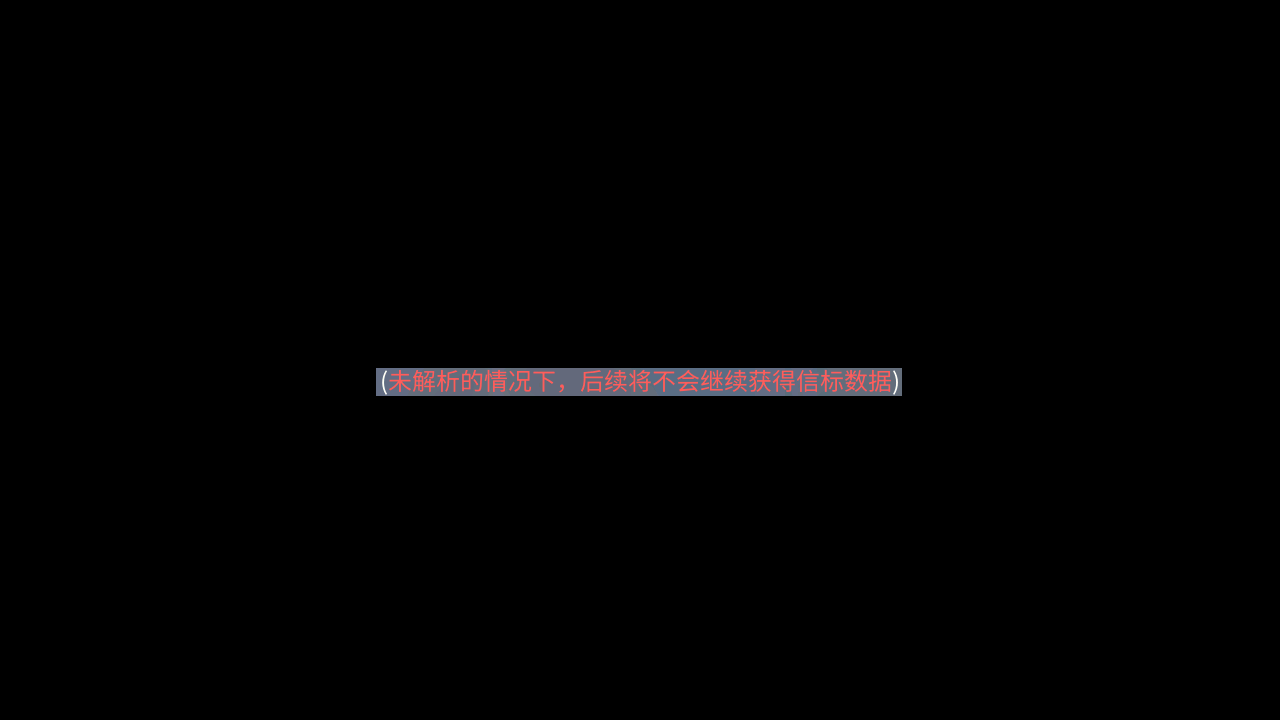
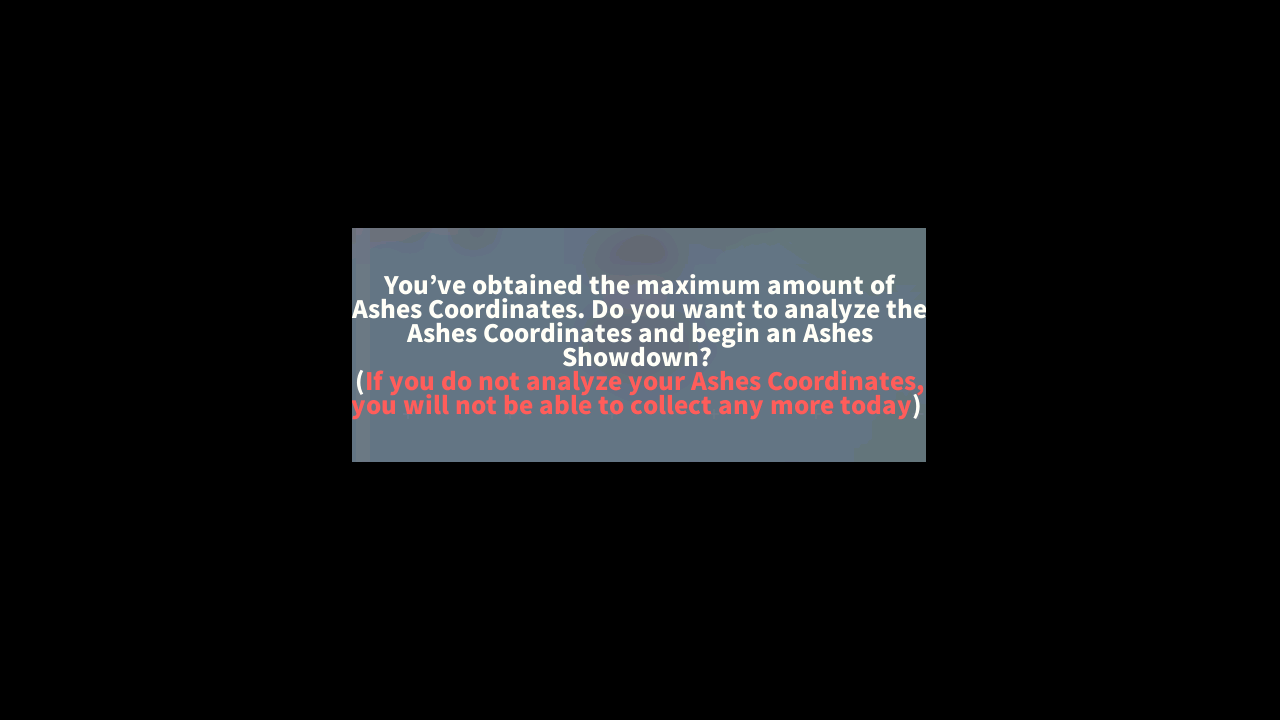
Add: [EN] os_handler assets pt. 1
TODO: Missing MISSION_FINISH, PORT_MISSION_ACCEPT

Changed region(s): [[0.25, 0.3056, 0.75, 0.6417]]

diff --git a/module/os_handler/assets.py b/module/os_handler/assets.py
@@ -4,12 +4,12 @@ from module.base.template import Template
 # This file was automatically generated by dev_tools.button_extract.
 # Don't modify it manually.
 
-ACTION_POINT_BUY_REMAIN = Button(area={'cn': (803, 458, 833, 482), 'en': (803, 458, 833, 482), 'jp': (803, 458, 833, 482), 'tw': (803, 458, 833, 482)}, color={'cn': (108, 138, 125), 'en': (108, 138, 125), 'jp': (108, 138, 125), 'tw': (108, 138, 125)}, button={'cn': (803, 458, 833, 482), 'en': (803, 458, 833, 482), 'jp': (803, 458, 833, 482), 'tw': (803, 458, 833, 482)}, file={'cn': './assets/cn/os_handler/ACTION_POINT_BUY_REMAIN.png', 'en': './assets/cn/os_handler/ACTION_POINT_BUY_REMAIN.png', 'jp': './assets/cn/os_handler/ACTION_POINT_BUY_REMAIN.png', 'tw': './assets/cn/os_handler/ACTION_POINT_BUY_REMAIN.png'})
-ACTION_POINT_CANCEL = Button(area={'cn': (370, 528, 542, 585), 'en': (370, 528, 542, 585), 'jp': (370, 528, 542, 585), 'tw': (370, 528, 542, 585)}, color={'cn': (167, 168, 171), 'en': (167, 168, 171), 'jp': (167, 168, 171), 'tw': (167, 168, 171)}, button={'cn': (370, 528, 542, 585), 'en': (370, 528, 542, 585), 'jp': (370, 528, 542, 585), 'tw': (370, 528, 542, 585)}, file={'cn': './assets/cn/os_handler/ACTION_POINT_CANCEL.png', 'en': './assets/cn/os_handler/ACTION_POINT_CANCEL.png', 'jp': './assets/cn/os_handler/ACTION_POINT_CANCEL.png', 'tw': './assets/cn/os_handler/ACTION_POINT_CANCEL.png'})
-ACTION_POINT_REMAIN = Button(area={'cn': (892, 220, 952, 241), 'en': (892, 220, 952, 241), 'jp': (892, 220, 952, 241), 'tw': (892, 220, 952, 241)}, color={'cn': (124, 127, 113), 'en': (124, 127, 113), 'jp': (124, 127, 113), 'tw': (124, 127, 113)}, button={'cn': (892, 220, 952, 241), 'en': (892, 220, 952, 241), 'jp': (892, 220, 952, 241), 'tw': (892, 220, 952, 241)}, file={'cn': './assets/cn/os_handler/ACTION_POINT_REMAIN.png', 'en': './assets/cn/os_handler/ACTION_POINT_REMAIN.png', 'jp': './assets/cn/os_handler/ACTION_POINT_REMAIN.png', 'tw': './assets/cn/os_handler/ACTION_POINT_REMAIN.png'})
-ACTION_POINT_USE = Button(area={'cn': (738, 528, 910, 585), 'en': (738, 528, 910, 585), 'jp': (738, 528, 910, 585), 'tw': (738, 528, 910, 585)}, color={'cn': (93, 142, 203), 'en': (93, 142, 203), 'jp': (93, 142, 203), 'tw': (93, 142, 203)}, button={'cn': (738, 528, 910, 585), 'en': (738, 528, 910, 585), 'jp': (738, 528, 910, 585), 'tw': (738, 528, 910, 585)}, file={'cn': './assets/cn/os_handler/ACTION_POINT_USE.png', 'en': './assets/cn/os_handler/ACTION_POINT_USE.png', 'jp': './assets/cn/os_handler/ACTION_POINT_USE.png', 'tw': './assets/cn/os_handler/ACTION_POINT_USE.png'})
-ASH_POPUP_CHECK = Button(area={'cn': (352, 249, 928, 479), 'en': (376, 368, 902, 396), 'jp': (376, 368, 902, 396), 'tw': (376, 368, 902, 396)}, color={'cn': (107, 117, 135), 'en': (134, 105, 119), 'jp': (134, 105, 119), 'tw': (134, 105, 119)}, button={'cn': (352, 249, 928, 479), 'en': (376, 368, 902, 396), 'jp': (376, 368, 902, 396), 'tw': (376, 368, 902, 396)}, file={'cn': './assets/cn/os_handler/ASH_POPUP_CHECK.png', 'en': './assets/en/os_handler/ASH_POPUP_CHECK.png', 'jp': './assets/jp/os_handler/ASH_POPUP_CHECK.png', 'tw': './assets/tw/os_handler/ASH_POPUP_CHECK.png'})
-AUTO_SEARCH_REWARD = Button(area={'cn': (558, 535, 730, 592), 'en': (558, 535, 730, 592), 'jp': (558, 535, 730, 592), 'tw': (558, 535, 730, 592)}, color={'cn': (163, 166, 170), 'en': (163, 166, 170), 'jp': (163, 166, 170), 'tw': (163, 166, 170)}, button={'cn': (558, 535, 730, 592), 'en': (558, 535, 730, 592), 'jp': (558, 535, 730, 592), 'tw': (558, 535, 730, 592)}, file={'cn': './assets/cn/os_handler/AUTO_SEARCH_REWARD.png', 'en': './assets/cn/os_handler/AUTO_SEARCH_REWARD.png', 'jp': './assets/cn/os_handler/AUTO_SEARCH_REWARD.png', 'tw': './assets/cn/os_handler/AUTO_SEARCH_REWARD.png'})
+ACTION_POINT_BUY_REMAIN = Button(area={'cn': (803, 458, 833, 482), 'en': (907, 458, 941, 483), 'jp': (803, 458, 833, 482), 'tw': (803, 458, 833, 482)}, color={'cn': (108, 138, 125), 'en': (106, 145, 116), 'jp': (108, 138, 125), 'tw': (108, 138, 125)}, button={'cn': (803, 458, 833, 482), 'en': (907, 458, 941, 483), 'jp': (803, 458, 833, 482), 'tw': (803, 458, 833, 482)}, file={'cn': './assets/cn/os_handler/ACTION_POINT_BUY_REMAIN.png', 'en': './assets/en/os_handler/ACTION_POINT_BUY_REMAIN.png', 'jp': './assets/cn/os_handler/ACTION_POINT_BUY_REMAIN.png', 'tw': './assets/cn/os_handler/ACTION_POINT_BUY_REMAIN.png'})
+ACTION_POINT_CANCEL = Button(area={'cn': (370, 528, 542, 585), 'en': (375, 531, 537, 584), 'jp': (370, 528, 542, 585), 'tw': (370, 528, 542, 585)}, color={'cn': (167, 168, 171), 'en': (170, 172, 175), 'jp': (167, 168, 171), 'tw': (167, 168, 171)}, button={'cn': (370, 528, 542, 585), 'en': (375, 531, 537, 584), 'jp': (370, 528, 542, 585), 'tw': (370, 528, 542, 585)}, file={'cn': './assets/cn/os_handler/ACTION_POINT_CANCEL.png', 'en': './assets/en/os_handler/ACTION_POINT_CANCEL.png', 'jp': './assets/cn/os_handler/ACTION_POINT_CANCEL.png', 'tw': './assets/cn/os_handler/ACTION_POINT_CANCEL.png'})
+ACTION_POINT_REMAIN = Button(area={'cn': (892, 220, 952, 241), 'en': (892, 220, 952, 241), 'jp': (892, 220, 952, 241), 'tw': (892, 220, 952, 241)}, color={'cn': (124, 127, 113), 'en': (124, 127, 113), 'jp': (124, 127, 113), 'tw': (124, 127, 113)}, button={'cn': (892, 220, 952, 241), 'en': (892, 220, 952, 241), 'jp': (892, 220, 952, 241), 'tw': (892, 220, 952, 241)}, file={'cn': './assets/cn/os_handler/ACTION_POINT_REMAIN.png', 'en': './assets/en/os_handler/ACTION_POINT_REMAIN.png', 'jp': './assets/cn/os_handler/ACTION_POINT_REMAIN.png', 'tw': './assets/cn/os_handler/ACTION_POINT_REMAIN.png'})
+ACTION_POINT_USE = Button(area={'cn': (738, 528, 910, 585), 'en': (742, 531, 909, 584), 'jp': (738, 528, 910, 585), 'tw': (738, 528, 910, 585)}, color={'cn': (93, 142, 203), 'en': (107, 152, 208), 'jp': (93, 142, 203), 'tw': (93, 142, 203)}, button={'cn': (738, 528, 910, 585), 'en': (742, 531, 909, 584), 'jp': (738, 528, 910, 585), 'tw': (738, 528, 910, 585)}, file={'cn': './assets/cn/os_handler/ACTION_POINT_USE.png', 'en': './assets/en/os_handler/ACTION_POINT_USE.png', 'jp': './assets/cn/os_handler/ACTION_POINT_USE.png', 'tw': './assets/cn/os_handler/ACTION_POINT_USE.png'})
+ASH_POPUP_CHECK = Button(area={'cn': (352, 249, 928, 479), 'en': (352, 228, 926, 462), 'jp': (376, 368, 902, 396), 'tw': (376, 368, 902, 396)}, color={'cn': (107, 117, 135), 'en': (125, 129, 139), 'jp': (134, 105, 119), 'tw': (134, 105, 119)}, button={'cn': (352, 249, 928, 479), 'en': (352, 228, 926, 462), 'jp': (376, 368, 902, 396), 'tw': (376, 368, 902, 396)}, file={'cn': './assets/cn/os_handler/ASH_POPUP_CHECK.png', 'en': './assets/en/os_handler/ASH_POPUP_CHECK.png', 'jp': './assets/jp/os_handler/ASH_POPUP_CHECK.png', 'tw': './assets/tw/os_handler/ASH_POPUP_CHECK.png'})
+AUTO_SEARCH_REWARD = Button(area={'cn': (558, 535, 730, 592), 'en': (563, 537, 725, 591), 'jp': (558, 535, 730, 592), 'tw': (558, 535, 730, 592)}, color={'cn': (163, 166, 170), 'en': (167, 170, 174), 'jp': (163, 166, 170), 'tw': (163, 166, 170)}, button={'cn': (558, 535, 730, 592), 'en': (563, 537, 725, 591), 'jp': (558, 535, 730, 592), 'tw': (558, 535, 730, 592)}, file={'cn': './assets/cn/os_handler/AUTO_SEARCH_REWARD.png', 'en': './assets/en/os_handler/AUTO_SEARCH_REWARD.png', 'jp': './assets/cn/os_handler/AUTO_SEARCH_REWARD.png', 'tw': './assets/cn/os_handler/AUTO_SEARCH_REWARD.png'})
 CLICK_SAFE_AREA = Button(area={'cn': (1104, 169, 1214, 284), 'en': (1104, 169, 1214, 284), 'jp': (1104, 169, 1214, 284), 'tw': (1104, 169, 1214, 284)}, color={'cn': (96, 114, 142), 'en': (96, 114, 142), 'jp': (96, 114, 142), 'tw': (96, 114, 142)}, button={'cn': (1104, 169, 1214, 284), 'en': (1104, 169, 1214, 284), 'jp': (1104, 169, 1214, 284), 'tw': (1104, 169, 1214, 284)}, file={'cn': './assets/cn/os_handler/CLICK_SAFE_AREA.png', 'en': './assets/en/os_handler/CLICK_SAFE_AREA.png', 'jp': './assets/jp/os_handler/CLICK_SAFE_AREA.png', 'tw': './assets/tw/os_handler/CLICK_SAFE_AREA.png'})
 GET_ADAPTABILITY = Button(area={'cn': (538, 191, 742, 227), 'en': (548, 191, 742, 215), 'jp': (538, 191, 743, 227), 'tw': (538, 191, 742, 227)}, color={'cn': (166, 195, 246), 'en': (194, 207, 225), 'jp': (158, 190, 245), 'tw': (166, 195, 246)}, button={'cn': (538, 191, 742, 227), 'en': (548, 191, 742, 215), 'jp': (538, 191, 743, 227), 'tw': (538, 191, 742, 227)}, file={'cn': './assets/cn/os_handler/GET_ADAPTABILITY.png', 'en': './assets/en/os_handler/GET_ADAPTABILITY.png', 'jp': './assets/jp/os_handler/GET_ADAPTABILITY.png', 'tw': './assets/tw/os_handler/GET_ADAPTABILITY.png'})
 GET_MEOWFFICER_ITEMS_1 = Button(area={'cn': (558, 211, 730, 242), 'en': (550, 211, 723, 247), 'jp': (538, 217, 732, 253), 'tw': (558, 211, 730, 242)}, color={'cn': (186, 200, 231), 'en': (165, 191, 241), 'jp': (143, 180, 249), 'tw': (186, 200, 231)}, button={'cn': (558, 211, 730, 242), 'en': (550, 211, 723, 247), 'jp': (538, 217, 732, 253), 'tw': (558, 211, 730, 242)}, file={'cn': './assets/cn/os_handler/GET_MEOWFFICER_ITEMS_1.png', 'en': './assets/en/os_handler/GET_MEOWFFICER_ITEMS_1.png', 'jp': './assets/jp/os_handler/GET_MEOWFFICER_ITEMS_1.png', 'tw': './assets/tw/os_handler/GET_MEOWFFICER_ITEMS_1.png'})
@@ -17,21 +17,21 @@ GET_MEOWFFICER_ITEMS_2 = Button(area={'cn': (558, 140, 730, 171), 'en': (550, 14
 IN_MAP = Button(area={'cn': (921, 640, 1023, 695), 'en': (921, 640, 1023, 695), 'jp': (918, 637, 1026, 698), 'tw': (936, 638, 1037, 697)}, color={'cn': (240, 194, 115), 'en': (239, 192, 110), 'jp': (236, 192, 111), 'tw': (239, 192, 111)}, button={'cn': (921, 640, 1023, 695), 'en': (921, 640, 1023, 695), 'jp': (918, 637, 1026, 698), 'tw': (936, 638, 1037, 697)}, file={'cn': './assets/cn/os_handler/IN_MAP.png', 'en': './assets/en/os_handler/IN_MAP.png', 'jp': './assets/jp/os_handler/IN_MAP.png', 'tw': './assets/tw/os_handler/IN_MAP.png'})
 MAP_ARCHIVES = Button(area={'cn': (1180, 353, 1280, 411), 'en': (1212, 353, 1280, 411), 'jp': (1180, 353, 1280, 411), 'tw': (1180, 353, 1280, 411)}, color={'cn': (134, 255, 255), 'en': (135, 255, 255), 'jp': (134, 255, 255), 'tw': (134, 255, 255)}, button={'cn': (1180, 353, 1280, 411), 'en': (1212, 353, 1280, 411), 'jp': (1180, 353, 1280, 411), 'tw': (1180, 353, 1280, 411)}, file={'cn': './assets/cn/os_handler/MAP_ARCHIVES.png', 'en': './assets/en/os_handler/MAP_ARCHIVES.png', 'jp': './assets/jp/os_handler/MAP_ARCHIVES.png', 'tw': './assets/tw/os_handler/MAP_ARCHIVES.png'})
 MAP_WORLD = Button(area={'cn': (578, 675, 702, 691), 'en': (583, 677, 691, 694), 'jp': (586, 676, 693, 694), 'tw': (583, 677, 691, 694)}, color={'cn': (83, 81, 79), 'en': (67, 85, 108), 'jp': (64, 68, 76), 'tw': (67, 85, 108)}, button={'cn': (578, 675, 702, 691), 'en': (583, 677, 691, 694), 'jp': (586, 676, 693, 694), 'tw': (583, 677, 691, 694)}, file={'cn': './assets/cn/os_handler/MAP_WORLD.png', 'en': './assets/en/os_handler/MAP_WORLD.png', 'jp': './assets/jp/os_handler/MAP_WORLD.png', 'tw': './assets/tw/os_handler/MAP_WORLD.png'})
-MISSION_CHECK = Button(area={'cn': (120, 122, 229, 148), 'en': (120, 122, 229, 148), 'jp': (120, 122, 229, 148), 'tw': (120, 122, 229, 148)}, color={'cn': (145, 153, 187), 'en': (145, 153, 187), 'jp': (145, 153, 187), 'tw': (145, 153, 187)}, button={'cn': (120, 122, 229, 148), 'en': (120, 122, 229, 148), 'jp': (120, 122, 229, 148), 'tw': (120, 122, 229, 148)}, file={'cn': './assets/cn/os_handler/MISSION_CHECK.png', 'en': './assets/cn/os_handler/MISSION_CHECK.png', 'jp': './assets/cn/os_handler/MISSION_CHECK.png', 'tw': './assets/cn/os_handler/MISSION_CHECK.png'})
-MISSION_CHECKOUT = Button(area={'cn': (1026, 204, 1114, 234), 'en': (1026, 204, 1114, 234), 'jp': (1026, 204, 1114, 234), 'tw': (1026, 204, 1114, 234)}, color={'cn': (152, 153, 156), 'en': (152, 153, 156), 'jp': (152, 153, 156), 'tw': (152, 153, 156)}, button={'cn': (1026, 204, 1114, 234), 'en': (1026, 204, 1114, 234), 'jp': (1026, 204, 1114, 234), 'tw': (1026, 204, 1114, 234)}, file={'cn': './assets/cn/os_handler/MISSION_CHECKOUT.png', 'en': './assets/cn/os_handler/MISSION_CHECKOUT.png', 'jp': './assets/cn/os_handler/MISSION_CHECKOUT.png', 'tw': './assets/cn/os_handler/MISSION_CHECKOUT.png'})
-MISSION_ENTER = Button(area={'cn': (767, 639, 853, 695), 'en': (767, 639, 853, 695), 'jp': (767, 639, 853, 695), 'tw': (767, 639, 853, 695)}, color={'cn': (230, 185, 113), 'en': (230, 185, 113), 'jp': (230, 185, 113), 'tw': (230, 185, 113)}, button={'cn': (767, 639, 853, 695), 'en': (767, 639, 853, 695), 'jp': (767, 639, 853, 695), 'tw': (767, 639, 853, 695)}, file={'cn': './assets/cn/os_handler/MISSION_ENTER.png', 'en': './assets/cn/os_handler/MISSION_ENTER.png', 'jp': './assets/cn/os_handler/MISSION_ENTER.png', 'tw': './assets/cn/os_handler/MISSION_ENTER.png'})
+MISSION_CHECK = Button(area={'cn': (120, 122, 229, 148), 'en': (120, 125, 323, 147), 'jp': (120, 122, 229, 148), 'tw': (120, 122, 229, 148)}, color={'cn': (145, 153, 187), 'en': (139, 148, 184), 'jp': (145, 153, 187), 'tw': (145, 153, 187)}, button={'cn': (120, 122, 229, 148), 'en': (120, 125, 323, 147), 'jp': (120, 122, 229, 148), 'tw': (120, 122, 229, 148)}, file={'cn': './assets/cn/os_handler/MISSION_CHECK.png', 'en': './assets/en/os_handler/MISSION_CHECK.png', 'jp': './assets/cn/os_handler/MISSION_CHECK.png', 'tw': './assets/cn/os_handler/MISSION_CHECK.png'})
+MISSION_CHECKOUT = Button(area={'cn': (1026, 204, 1114, 234), 'en': (1029, 205, 1112, 232), 'jp': (1026, 204, 1114, 234), 'tw': (1026, 204, 1114, 234)}, color={'cn': (152, 153, 156), 'en': (153, 154, 158), 'jp': (152, 153, 156), 'tw': (152, 153, 156)}, button={'cn': (1026, 204, 1114, 234), 'en': (1029, 205, 1112, 232), 'jp': (1026, 204, 1114, 234), 'tw': (1026, 204, 1114, 234)}, file={'cn': './assets/cn/os_handler/MISSION_CHECKOUT.png', 'en': './assets/en/os_handler/MISSION_CHECKOUT.png', 'jp': './assets/cn/os_handler/MISSION_CHECKOUT.png', 'tw': './assets/cn/os_handler/MISSION_CHECKOUT.png'})
+MISSION_ENTER = Button(area={'cn': (767, 639, 853, 695), 'en': (767, 640, 824, 695), 'jp': (767, 639, 853, 695), 'tw': (767, 639, 853, 695)}, color={'cn': (230, 185, 113), 'en': (234, 184, 112), 'jp': (230, 185, 113), 'tw': (230, 185, 113)}, button={'cn': (767, 639, 853, 695), 'en': (767, 640, 824, 695), 'jp': (767, 639, 853, 695), 'tw': (767, 639, 853, 695)}, file={'cn': './assets/cn/os_handler/MISSION_ENTER.png', 'en': './assets/en/os_handler/MISSION_ENTER.png', 'jp': './assets/cn/os_handler/MISSION_ENTER.png', 'tw': './assets/cn/os_handler/MISSION_ENTER.png'})
 MISSION_FINISH = Button(area={'cn': (1028, 205, 1112, 232), 'en': (1028, 205, 1112, 232), 'jp': (1028, 205, 1112, 232), 'tw': (1028, 205, 1112, 232)}, color={'cn': (79, 128, 191), 'en': (79, 128, 191), 'jp': (79, 128, 191), 'tw': (79, 128, 191)}, button={'cn': (1028, 205, 1112, 232), 'en': (1028, 205, 1112, 232), 'jp': (1028, 205, 1112, 232), 'tw': (1028, 205, 1112, 232)}, file={'cn': './assets/cn/os_handler/MISSION_FINISH.png', 'en': './assets/cn/os_handler/MISSION_FINISH.png', 'jp': './assets/cn/os_handler/MISSION_FINISH.png', 'tw': './assets/cn/os_handler/MISSION_FINISH.png'})
-MISSION_MAP_CHECK = Button(area={'cn': (943, 499, 1048, 512), 'en': (943, 499, 1048, 512), 'jp': (943, 499, 1048, 512), 'tw': (943, 499, 1048, 512)}, color={'cn': (71, 74, 83), 'en': (71, 74, 83), 'jp': (71, 74, 83), 'tw': (71, 74, 83)}, button={'cn': (943, 499, 1048, 512), 'en': (943, 499, 1048, 512), 'jp': (943, 499, 1048, 512), 'tw': (943, 499, 1048, 512)}, file={'cn': './assets/cn/os_handler/MISSION_MAP_CHECK.png', 'en': './assets/cn/os_handler/MISSION_MAP_CHECK.png', 'jp': './assets/cn/os_handler/MISSION_MAP_CHECK.png', 'tw': './assets/cn/os_handler/MISSION_MAP_CHECK.png'})
-MISSION_QUIT = Button(area={'cn': (1086, 111, 1152, 155), 'en': (1086, 111, 1152, 155), 'jp': (1086, 111, 1152, 155), 'tw': (1086, 111, 1152, 155)}, color={'cn': (152, 38, 35), 'en': (152, 38, 35), 'jp': (152, 38, 35), 'tw': (152, 38, 35)}, button={'cn': (1086, 111, 1152, 155), 'en': (1086, 111, 1152, 155), 'jp': (1086, 111, 1152, 155), 'tw': (1086, 111, 1152, 155)}, file={'cn': './assets/cn/os_handler/MISSION_QUIT.png', 'en': './assets/cn/os_handler/MISSION_QUIT.png', 'jp': './assets/cn/os_handler/MISSION_QUIT.png', 'tw': './assets/cn/os_handler/MISSION_QUIT.png'})
-PORT_DOCK_CHECK = Button(area={'cn': (182, 645, 364, 697), 'en': (182, 645, 364, 697), 'jp': (182, 645, 364, 697), 'tw': (182, 645, 364, 697)}, color={'cn': (125, 179, 242), 'en': (125, 179, 242), 'jp': (125, 179, 242), 'tw': (125, 179, 242)}, button={'cn': (182, 645, 364, 697), 'en': (182, 645, 364, 697), 'jp': (182, 645, 364, 697), 'tw': (182, 645, 364, 697)}, file={'cn': './assets/cn/os_handler/PORT_DOCK_CHECK.png', 'en': './assets/cn/os_handler/PORT_DOCK_CHECK.png', 'jp': './assets/cn/os_handler/PORT_DOCK_CHECK.png', 'tw': './assets/cn/os_handler/PORT_DOCK_CHECK.png'})
-PORT_ENTER = Button(area={'cn': (1148, 640, 1280, 698), 'en': (1148, 640, 1280, 698), 'jp': (1148, 640, 1280, 698), 'tw': (1148, 640, 1280, 698)}, color={'cn': (47, 55, 66), 'en': (47, 55, 66), 'jp': (47, 55, 66), 'tw': (47, 55, 66)}, button={'cn': (1148, 640, 1280, 698), 'en': (1148, 640, 1280, 698), 'jp': (1148, 640, 1280, 698), 'tw': (1148, 640, 1280, 698)}, file={'cn': './assets/cn/os_handler/PORT_ENTER.png', 'en': './assets/cn/os_handler/PORT_ENTER.png', 'jp': './assets/cn/os_handler/PORT_ENTER.png', 'tw': './assets/cn/os_handler/PORT_ENTER.png'})
-PORT_GOTO_DOCK = Button(area={'cn': (1069, 640, 1260, 695), 'en': (1069, 640, 1260, 695), 'jp': (1069, 640, 1260, 695), 'tw': (1069, 640, 1260, 695)}, color={'cn': (114, 171, 236), 'en': (114, 171, 236), 'jp': (114, 171, 236), 'tw': (114, 171, 236)}, button={'cn': (1069, 640, 1260, 695), 'en': (1069, 640, 1260, 695), 'jp': (1069, 640, 1260, 695), 'tw': (1069, 640, 1260, 695)}, file={'cn': './assets/cn/os_handler/PORT_GOTO_DOCK.png', 'en': './assets/cn/os_handler/PORT_GOTO_DOCK.png', 'jp': './assets/cn/os_handler/PORT_GOTO_DOCK.png', 'tw': './assets/cn/os_handler/PORT_GOTO_DOCK.png'})
-PORT_GOTO_MISSION = Button(area={'cn': (606, 641, 783, 695), 'en': (606, 641, 783, 695), 'jp': (606, 641, 783, 695), 'tw': (606, 641, 783, 695)}, color={'cn': (229, 174, 90), 'en': (229, 174, 90), 'jp': (229, 174, 90), 'tw': (229, 174, 90)}, button={'cn': (606, 641, 783, 695), 'en': (606, 641, 783, 695), 'jp': (606, 641, 783, 695), 'tw': (606, 641, 783, 695)}, file={'cn': './assets/cn/os_handler/PORT_GOTO_MISSION.png', 'en': './assets/cn/os_handler/PORT_GOTO_MISSION.png', 'jp': './assets/cn/os_handler/PORT_GOTO_MISSION.png', 'tw': './assets/cn/os_handler/PORT_GOTO_MISSION.png'})
-PORT_GOTO_SUPPLY = Button(area={'cn': (837, 640, 1029, 695), 'en': (837, 640, 1029, 695), 'jp': (837, 640, 1029, 695), 'tw': (837, 640, 1029, 695)}, color={'cn': (110, 167, 233), 'en': (110, 167, 233), 'jp': (110, 167, 233), 'tw': (110, 167, 233)}, button={'cn': (837, 640, 1029, 695), 'en': (837, 640, 1029, 695), 'jp': (837, 640, 1029, 695), 'tw': (837, 640, 1029, 695)}, file={'cn': './assets/cn/os_handler/PORT_GOTO_SUPPLY.png', 'en': './assets/cn/os_handler/PORT_GOTO_SUPPLY.png', 'jp': './assets/cn/os_handler/PORT_GOTO_SUPPLY.png', 'tw': './assets/cn/os_handler/PORT_GOTO_SUPPLY.png'})
+MISSION_MAP_CHECK = Button(area={'cn': (943, 499, 1048, 512), 'en': (943, 499, 1048, 512), 'jp': (943, 499, 1048, 512), 'tw': (943, 499, 1048, 512)}, color={'cn': (71, 74, 83), 'en': (71, 74, 83), 'jp': (71, 74, 83), 'tw': (71, 74, 83)}, button={'cn': (943, 499, 1048, 512), 'en': (943, 499, 1048, 512), 'jp': (943, 499, 1048, 512), 'tw': (943, 499, 1048, 512)}, file={'cn': './assets/cn/os_handler/MISSION_MAP_CHECK.png', 'en': './assets/en/os_handler/MISSION_MAP_CHECK.png', 'jp': './assets/cn/os_handler/MISSION_MAP_CHECK.png', 'tw': './assets/cn/os_handler/MISSION_MAP_CHECK.png'})
+MISSION_QUIT = Button(area={'cn': (1086, 111, 1152, 155), 'en': (1086, 111, 1152, 155), 'jp': (1086, 111, 1152, 155), 'tw': (1086, 111, 1152, 155)}, color={'cn': (152, 38, 35), 'en': (152, 38, 35), 'jp': (152, 38, 35), 'tw': (152, 38, 35)}, button={'cn': (1086, 111, 1152, 155), 'en': (1086, 111, 1152, 155), 'jp': (1086, 111, 1152, 155), 'tw': (1086, 111, 1152, 155)}, file={'cn': './assets/cn/os_handler/MISSION_QUIT.png', 'en': './assets/en/os_handler/MISSION_QUIT.png', 'jp': './assets/cn/os_handler/MISSION_QUIT.png', 'tw': './assets/cn/os_handler/MISSION_QUIT.png'})
+PORT_DOCK_CHECK = Button(area={'cn': (182, 645, 364, 697), 'en': (182, 645, 364, 696), 'jp': (182, 645, 364, 697), 'tw': (182, 645, 364, 697)}, color={'cn': (125, 179, 242), 'en': (119, 176, 241), 'jp': (125, 179, 242), 'tw': (125, 179, 242)}, button={'cn': (182, 645, 364, 697), 'en': (182, 645, 364, 696), 'jp': (182, 645, 364, 697), 'tw': (182, 645, 364, 697)}, file={'cn': './assets/cn/os_handler/PORT_DOCK_CHECK.png', 'en': './assets/en/os_handler/PORT_DOCK_CHECK.png', 'jp': './assets/cn/os_handler/PORT_DOCK_CHECK.png', 'tw': './assets/cn/os_handler/PORT_DOCK_CHECK.png'})
+PORT_ENTER = Button(area={'cn': (1148, 640, 1280, 698), 'en': (1148, 637, 1280, 699), 'jp': (1148, 640, 1280, 698), 'tw': (1148, 640, 1280, 698)}, color={'cn': (47, 55, 66), 'en': (37, 49, 64), 'jp': (47, 55, 66), 'tw': (47, 55, 66)}, button={'cn': (1148, 640, 1280, 698), 'en': (1148, 637, 1280, 699), 'jp': (1148, 640, 1280, 698), 'tw': (1148, 640, 1280, 698)}, file={'cn': './assets/cn/os_handler/PORT_ENTER.png', 'en': './assets/en/os_handler/PORT_ENTER.png', 'jp': './assets/cn/os_handler/PORT_ENTER.png', 'tw': './assets/cn/os_handler/PORT_ENTER.png'})
+PORT_GOTO_DOCK = Button(area={'cn': (1069, 640, 1260, 695), 'en': (1068, 640, 1261, 694), 'jp': (1069, 640, 1260, 695), 'tw': (1069, 640, 1260, 695)}, color={'cn': (114, 171, 236), 'en': (119, 173, 237), 'jp': (114, 171, 236), 'tw': (114, 171, 236)}, button={'cn': (1069, 640, 1260, 695), 'en': (1068, 640, 1261, 694), 'jp': (1069, 640, 1260, 695), 'tw': (1069, 640, 1260, 695)}, file={'cn': './assets/cn/os_handler/PORT_GOTO_DOCK.png', 'en': './assets/en/os_handler/PORT_GOTO_DOCK.png', 'jp': './assets/cn/os_handler/PORT_GOTO_DOCK.png', 'tw': './assets/cn/os_handler/PORT_GOTO_DOCK.png'})
+PORT_GOTO_MISSION = Button(area={'cn': (606, 641, 783, 695), 'en': (605, 640, 798, 694), 'jp': (606, 641, 783, 695), 'tw': (606, 641, 783, 695)}, color={'cn': (229, 174, 90), 'en': (231, 178, 94), 'jp': (229, 174, 90), 'tw': (229, 174, 90)}, button={'cn': (606, 641, 783, 695), 'en': (605, 640, 798, 694), 'jp': (606, 641, 783, 695), 'tw': (606, 641, 783, 695)}, file={'cn': './assets/cn/os_handler/PORT_GOTO_MISSION.png', 'en': './assets/en/os_handler/PORT_GOTO_MISSION.png', 'jp': './assets/cn/os_handler/PORT_GOTO_MISSION.png', 'tw': './assets/cn/os_handler/PORT_GOTO_MISSION.png'})
+PORT_GOTO_SUPPLY = Button(area={'cn': (837, 640, 1029, 695), 'en': (837, 640, 1029, 694), 'jp': (837, 640, 1029, 695), 'tw': (837, 640, 1029, 695)}, color={'cn': (110, 167, 233), 'en': (114, 168, 233), 'jp': (110, 167, 233), 'tw': (110, 167, 233)}, button={'cn': (837, 640, 1029, 695), 'en': (837, 640, 1029, 694), 'jp': (837, 640, 1029, 695), 'tw': (837, 640, 1029, 695)}, file={'cn': './assets/cn/os_handler/PORT_GOTO_SUPPLY.png', 'en': './assets/en/os_handler/PORT_GOTO_SUPPLY.png', 'jp': './assets/cn/os_handler/PORT_GOTO_SUPPLY.png', 'tw': './assets/cn/os_handler/PORT_GOTO_SUPPLY.png'})
 PORT_MISSION_ACCEPT = Button(area={'cn': (1132, 147, 1205, 176), 'en': (1132, 147, 1205, 176), 'jp': (1132, 147, 1205, 176), 'tw': (1132, 147, 1205, 176)}, color={'cn': (143, 181, 231), 'en': (143, 181, 231), 'jp': (143, 181, 231), 'tw': (143, 181, 231)}, button={'cn': (1132, 147, 1205, 176), 'en': (1132, 147, 1205, 176), 'jp': (1132, 147, 1205, 176), 'tw': (1132, 147, 1205, 176)}, file={'cn': './assets/cn/os_handler/PORT_MISSION_ACCEPT.png', 'en': './assets/cn/os_handler/PORT_MISSION_ACCEPT.png', 'jp': './assets/cn/os_handler/PORT_MISSION_ACCEPT.png', 'tw': './assets/cn/os_handler/PORT_MISSION_ACCEPT.png'})
-PORT_MISSION_CHECK = Button(area={'cn': (127, 17, 179, 42), 'en': (127, 17, 179, 42), 'jp': (127, 17, 179, 42), 'tw': (127, 17, 179, 42)}, color={'cn': (149, 166, 206), 'en': (149, 166, 206), 'jp': (149, 166, 206), 'tw': (149, 166, 206)}, button={'cn': (127, 17, 179, 42), 'en': (127, 17, 179, 42), 'jp': (127, 17, 179, 42), 'tw': (127, 17, 179, 42)}, file={'cn': './assets/cn/os_handler/PORT_MISSION_CHECK.png', 'en': './assets/cn/os_handler/PORT_MISSION_CHECK.png', 'jp': './assets/cn/os_handler/PORT_MISSION_CHECK.png', 'tw': './assets/cn/os_handler/PORT_MISSION_CHECK.png'})
+PORT_MISSION_CHECK = Button(area={'cn': (127, 17, 179, 42), 'en': (127, 17, 231, 41), 'jp': (127, 17, 179, 42), 'tw': (127, 17, 179, 42)}, color={'cn': (149, 166, 206), 'en': (134, 148, 188), 'jp': (149, 166, 206), 'tw': (149, 166, 206)}, button={'cn': (127, 17, 179, 42), 'en': (127, 17, 231, 41), 'jp': (127, 17, 179, 42), 'tw': (127, 17, 179, 42)}, file={'cn': './assets/cn/os_handler/PORT_MISSION_CHECK.png', 'en': './assets/en/os_handler/PORT_MISSION_CHECK.png', 'jp': './assets/cn/os_handler/PORT_MISSION_CHECK.png', 'tw': './assets/cn/os_handler/PORT_MISSION_CHECK.png'})
 PORT_MISSION_RED_DOT = Button(area={'cn': (791, 639, 799, 647), 'en': (791, 639, 799, 647), 'jp': (791, 639, 799, 647), 'tw': (791, 639, 799, 647)}, color={'cn': (222, 115, 90), 'en': (222, 115, 90), 'jp': (222, 115, 90), 'tw': (222, 115, 90)}, button={'cn': (791, 639, 799, 647), 'en': (791, 639, 799, 647), 'jp': (791, 639, 799, 647), 'tw': (791, 639, 799, 647)}, file={'cn': './assets/cn/os_handler/PORT_MISSION_RED_DOT.png', 'en': './assets/en/os_handler/PORT_MISSION_RED_DOT.png', 'jp': './assets/jp/os_handler/PORT_MISSION_RED_DOT.png', 'tw': './assets/tw/os_handler/PORT_MISSION_RED_DOT.png'})
-PORT_SUPPLY_CHECK = Button(area={'cn': (127, 16, 180, 41), 'en': (127, 16, 180, 41), 'jp': (127, 16, 180, 41), 'tw': (127, 16, 180, 41)}, color={'cn': (146, 163, 202), 'en': (146, 163, 202), 'jp': (146, 163, 202), 'tw': (146, 163, 202)}, button={'cn': (127, 16, 180, 41), 'en': (127, 16, 180, 41), 'jp': (127, 16, 180, 41), 'tw': (127, 16, 180, 41)}, file={'cn': './assets/cn/os_handler/PORT_SUPPLY_CHECK.png', 'en': './assets/cn/os_handler/PORT_SUPPLY_CHECK.png', 'jp': './assets/cn/os_handler/PORT_SUPPLY_CHECK.png', 'tw': './assets/cn/os_handler/PORT_SUPPLY_CHECK.png'})
-SHOP_BUY_CONFIRM = Button(area={'cn': (704, 483, 876, 540), 'en': (704, 483, 876, 540), 'jp': (704, 483, 876, 540), 'tw': (704, 483, 876, 540)}, color={'cn': (93, 142, 204), 'en': (93, 142, 204), 'jp': (93, 142, 204), 'tw': (93, 142, 204)}, button={'cn': (704, 483, 876, 540), 'en': (704, 483, 876, 540), 'jp': (704, 483, 876, 540), 'tw': (704, 483, 876, 540)}, file={'cn': './assets/cn/os_handler/SHOP_BUY_CONFIRM.png', 'en': './assets/cn/os_handler/SHOP_BUY_CONFIRM.png', 'jp': './assets/cn/os_handler/SHOP_BUY_CONFIRM.png', 'tw': './assets/cn/os_handler/SHOP_BUY_CONFIRM.png'})
-SHOP_PURPLE_COINS = Button(area={'cn': (325, 110, 415, 133), 'en': (325, 110, 415, 133), 'jp': (325, 110, 415, 133), 'tw': (325, 110, 415, 133)}, color={'cn': (97, 100, 108), 'en': (97, 100, 108), 'jp': (97, 100, 108), 'tw': (97, 100, 108)}, button={'cn': (325, 110, 415, 133), 'en': (325, 110, 415, 133), 'jp': (325, 110, 415, 133), 'tw': (325, 110, 415, 133)}, file={'cn': './assets/cn/os_handler/SHOP_PURPLE_COINS.png', 'en': './assets/cn/os_handler/SHOP_PURPLE_COINS.png', 'jp': './assets/cn/os_handler/SHOP_PURPLE_COINS.png', 'tw': './assets/cn/os_handler/SHOP_PURPLE_COINS.png'})
-SHOP_YELLOW_COINS = Button(area={'cn': (1038, 27, 1128, 48), 'en': (1038, 27, 1128, 48), 'jp': (1038, 27, 1128, 48), 'tw': (1038, 27, 1128, 48)}, color={'cn': (71, 74, 76), 'en': (71, 74, 76), 'jp': (71, 74, 76), 'tw': (71, 74, 76)}, button={'cn': (1038, 27, 1128, 48), 'en': (1038, 27, 1128, 48), 'jp': (1038, 27, 1128, 48), 'tw': (1038, 27, 1128, 48)}, file={'cn': './assets/cn/os_handler/SHOP_YELLOW_COINS.png', 'en': './assets/cn/os_handler/SHOP_YELLOW_COINS.png', 'jp': './assets/cn/os_handler/SHOP_YELLOW_COINS.png', 'tw': './assets/cn/os_handler/SHOP_YELLOW_COINS.png'})
+PORT_SUPPLY_CHECK = Button(area={'cn': (127, 16, 180, 41), 'en': (127, 15, 264, 39), 'jp': (127, 16, 180, 41), 'tw': (127, 16, 180, 41)}, color={'cn': (146, 163, 202), 'en': (131, 145, 186), 'jp': (146, 163, 202), 'tw': (146, 163, 202)}, button={'cn': (127, 16, 180, 41), 'en': (127, 15, 264, 39), 'jp': (127, 16, 180, 41), 'tw': (127, 16, 180, 41)}, file={'cn': './assets/cn/os_handler/PORT_SUPPLY_CHECK.png', 'en': './assets/en/os_handler/PORT_SUPPLY_CHECK.png', 'jp': './assets/cn/os_handler/PORT_SUPPLY_CHECK.png', 'tw': './assets/cn/os_handler/PORT_SUPPLY_CHECK.png'})
+SHOP_BUY_CONFIRM = Button(area={'cn': (704, 483, 876, 540), 'en': (708, 484, 875, 538), 'jp': (704, 483, 876, 540), 'tw': (704, 483, 876, 540)}, color={'cn': (93, 142, 204), 'en': (106, 151, 207), 'jp': (93, 142, 204), 'tw': (93, 142, 204)}, button={'cn': (704, 483, 876, 540), 'en': (708, 484, 875, 538), 'jp': (704, 483, 876, 540), 'tw': (704, 483, 876, 540)}, file={'cn': './assets/cn/os_handler/SHOP_BUY_CONFIRM.png', 'en': './assets/en/os_handler/SHOP_BUY_CONFIRM.png', 'jp': './assets/cn/os_handler/SHOP_BUY_CONFIRM.png', 'tw': './assets/cn/os_handler/SHOP_BUY_CONFIRM.png'})
+SHOP_PURPLE_COINS = Button(area={'cn': (325, 110, 415, 133), 'en': (379, 106, 489, 137), 'jp': (325, 110, 415, 133), 'tw': (325, 110, 415, 133)}, color={'cn': (97, 100, 108), 'en': (102, 107, 118), 'jp': (97, 100, 108), 'tw': (97, 100, 108)}, button={'cn': (325, 110, 415, 133), 'en': (379, 106, 489, 137), 'jp': (325, 110, 415, 133), 'tw': (325, 110, 415, 133)}, file={'cn': './assets/cn/os_handler/SHOP_PURPLE_COINS.png', 'en': './assets/en/os_handler/SHOP_PURPLE_COINS.png', 'jp': './assets/cn/os_handler/SHOP_PURPLE_COINS.png', 'tw': './assets/cn/os_handler/SHOP_PURPLE_COINS.png'})
+SHOP_YELLOW_COINS = Button(area={'cn': (1038, 27, 1128, 48), 'en': (1038, 27, 1128, 48), 'jp': (1038, 27, 1128, 48), 'tw': (1038, 27, 1128, 48)}, color={'cn': (71, 74, 76), 'en': (71, 74, 76), 'jp': (71, 74, 76), 'tw': (71, 74, 76)}, button={'cn': (1038, 27, 1128, 48), 'en': (1038, 27, 1128, 48), 'jp': (1038, 27, 1128, 48), 'tw': (1038, 27, 1128, 48)}, file={'cn': './assets/cn/os_handler/SHOP_YELLOW_COINS.png', 'en': './assets/en/os_handler/SHOP_YELLOW_COINS.png', 'jp': './assets/cn/os_handler/SHOP_YELLOW_COINS.png', 'tw': './assets/cn/os_handler/SHOP_YELLOW_COINS.png'})
